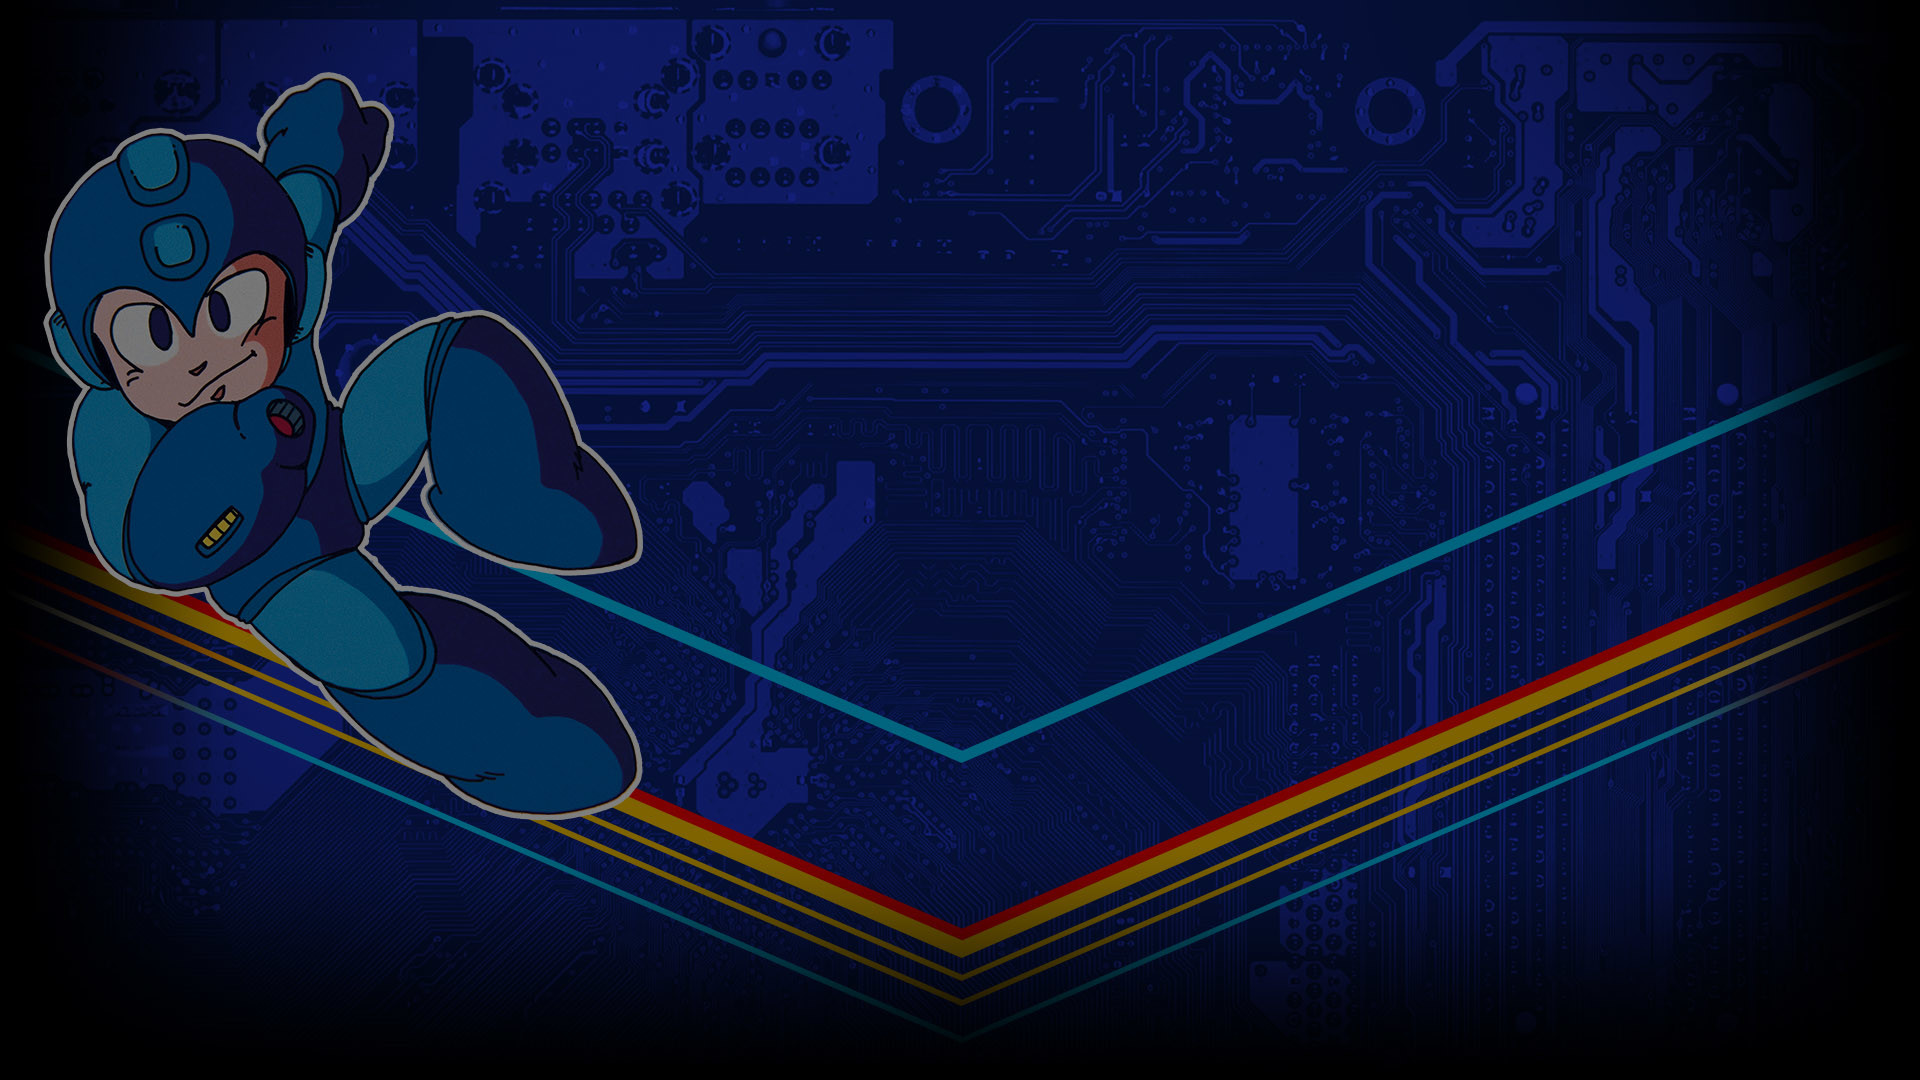
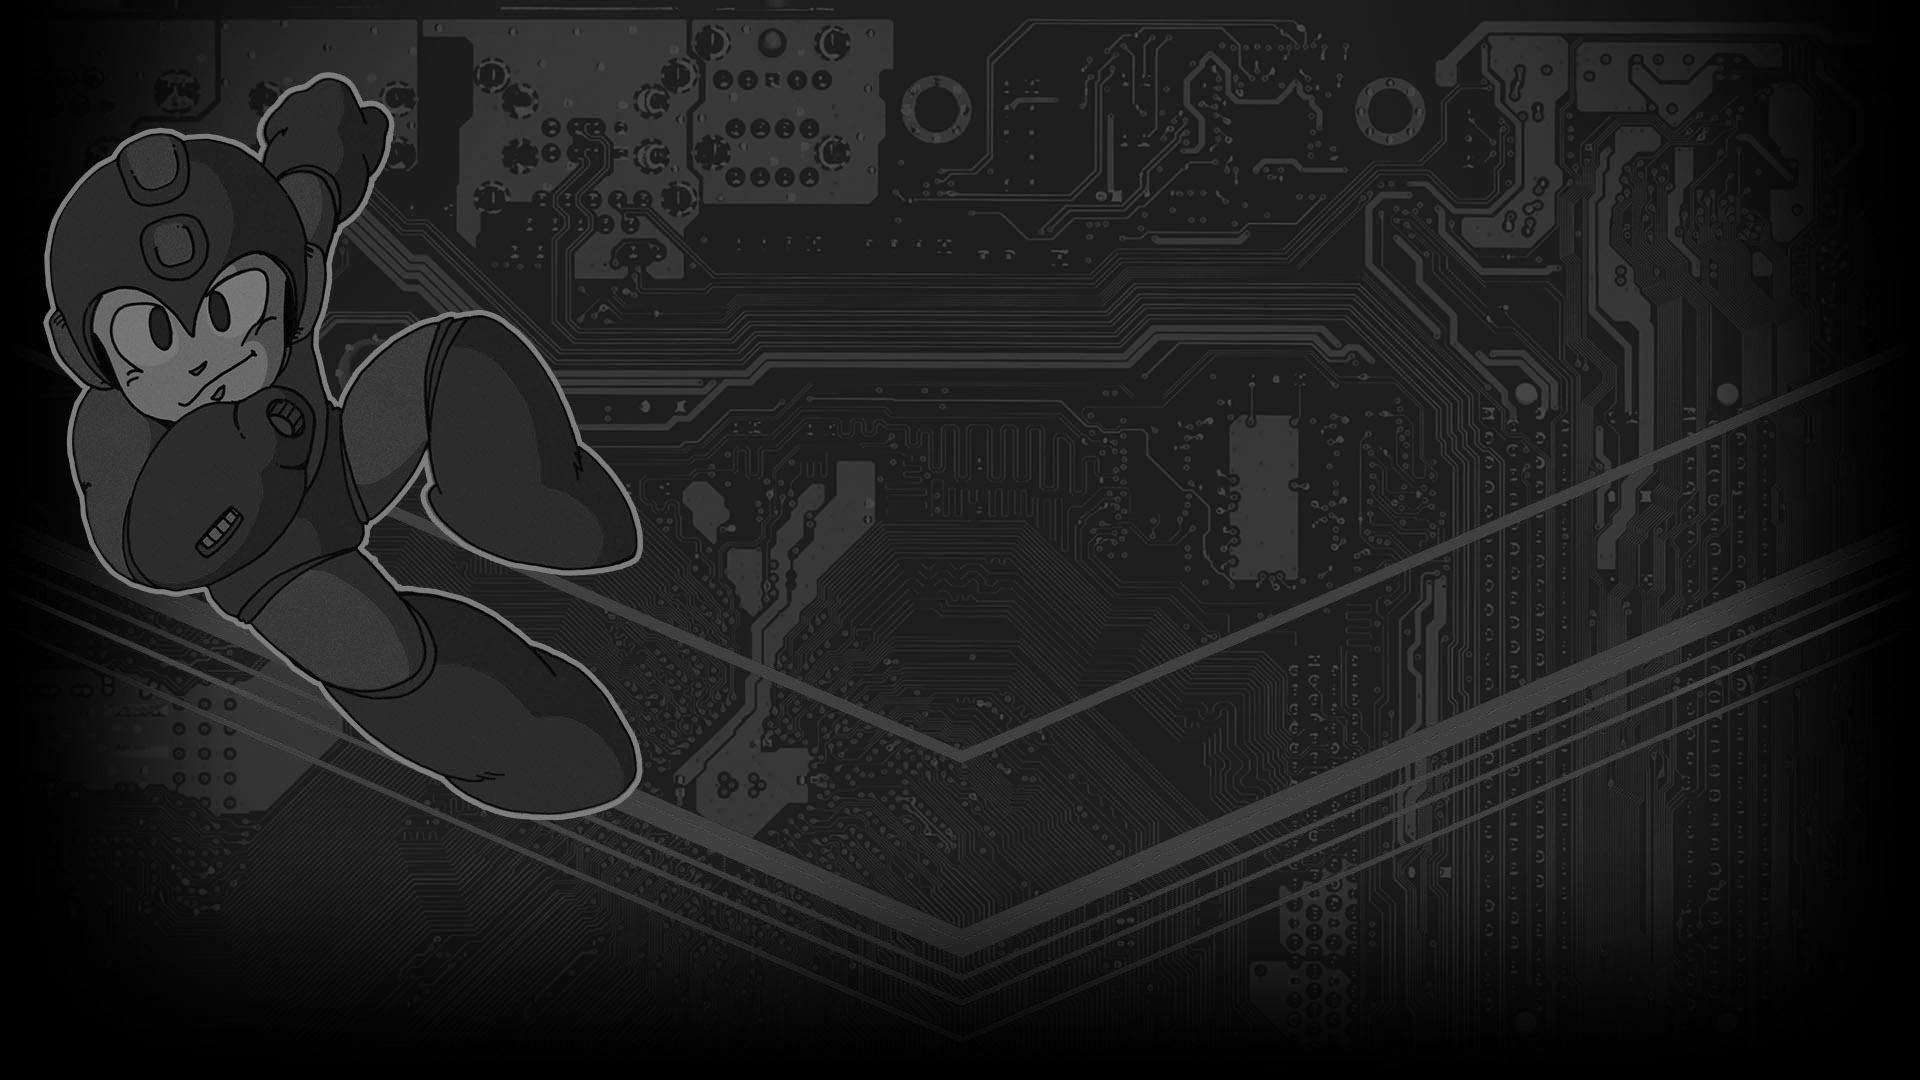
clear draw functions and add game over background

diff --git a/script.js b/script.js
@@ -29,11 +29,14 @@ let wilyNormal = new Image();
 wilyNormal.src = "./images/wily.png";
 let backgroundCanvas = new Image();
 backgroundCanvas.src = "./images/megaman_title.jpg";
+let backgroundLose = new Image();
+backgroundLose.src = "./images/megaman_bw.jpg";
 
 /* audios */
 
 let audio5 = new Audio();
 audio5.src = "./audios/audio5.mp3";
+audio5.volume = 1;
 let audio2 = new Audio();
 audio2.src = "./audios/audio2.mp3";
 let audio3 = new Audio();
@@ -48,10 +51,11 @@ let context = canvas.getContext("2d");
 let shotsMegaman = [];
 let shotsWily = [];
 let requestId = null;
+let startedGame = false;
 window.onload = () => {
 	context.fillStyle = "white";
 	context.fillText("Press Enter to Start", 107, 110);
-	context.drawImage(backgroundCanvas, 75, 10, 150, 75);
+	context.drawImage(backgroundCanvas, 75, 15, 150, 75);
 };
 
 /* game functions */
@@ -62,79 +66,13 @@ let gameArea = {
 	start: function() {
 		// console.log("start was called");
 		// setInterval(update, 1000);
+		startedGame = true;
 		update();
 	},
 
 	clear: function() {
 		gameArea.frame += 1;
 		context.drawImage(stage, 0, 0, 300, 150); // <== print stage
-		console.log(walkingCounter);
-		if (walkingCounter === 16) {
-			walkingCounter = 1;
-		}
-		if (megaman.isWalking && megaman.y === 100 && walkingCounter <= 5 && megaman.direction === "left") {
-			// print megaman walking 1
-			context.drawImage(megamanWalkingback1, megaman.x - 1, megaman.y + 2);
-			walkingCounter += 1;
-		} else if (
-			megaman.isWalking &&
-			megaman.y === 100 &&
-			walkingCounter >= 6 &&
-			walkingCounter <= 10 &&
-			megaman.direction === "left"
-		) {
-			// print megaman walking 2
-			context.drawImage(megamanWalkingback2, megaman.x - 1, megaman.y + 2);
-			walkingCounter += 1;
-		} else if (
-			megaman.isWalking &&
-			megaman.y === 100 &&
-			walkingCounter >= 11 &&
-			walkingCounter <= 15 &&
-			megaman.direction === "left"
-		) {
-			// print megaman walking 2
-			context.drawImage(megamanWalkingback3, megaman.x - 1, megaman.y + 2);
-			walkingCounter += 1;
-		} else if (megaman.isWalking && megaman.y === 100 && walkingCounter <= 5 && megaman.direction === "right") {
-			// print megaman walking 1
-			context.drawImage(megamanWalking1, megaman.x - 1, megaman.y + 2);
-			walkingCounter += 1;
-		} else if (
-			megaman.isWalking &&
-			megaman.y === 100 &&
-			walkingCounter >= 6 &&
-			walkingCounter <= 10 &&
-			megaman.direction === "right"
-		) {
-			// print megaman walking 2
-			context.drawImage(megamanWalking2, megaman.x - 1, megaman.y + 2);
-			walkingCounter += 1;
-		} else if (
-			megaman.isWalking &&
-			megaman.y === 100 &&
-			walkingCounter >= 11 &&
-			walkingCounter <= 15 &&
-			megaman.direction === "right"
-		) {
-			// print megaman walking 2
-			context.drawImage(megamanWalking3, megaman.x - 1, megaman.y + 2);
-			walkingCounter += 1;
-		} else if (megaman.isShooting && megaman.y < 100) {
-			// print megaman shooting in the air
-			context.drawImage(megamanShootingAir, megaman.x - 1, megaman.y - 5);
-		} else if (megaman.isShooting) {
-			// print megaman shooting
-			context.drawImage(megamanShooting, megaman.x, megaman.y);
-		} else if (megaman.y === 100) {
-			// print megaman in the ground
-			context.drawImage(megamanNormal, megaman.x, megaman.y);
-		} else {
-			// print megaman in the air
-			context.drawImage(megamanJumping, megaman.x - 1, megaman.y - 5);
-		}
-
-		context.drawImage(wilyNormal, wily.x, wily.y, 65, 75); // <== print wily
 
 		for (let i = 1; i <= megaman.health; i += 1) {
 			if (i % 25 === 0) {
@@ -205,6 +143,8 @@ class Player extends Character {
 	}
 
 	newPos() {
+		if (this.x < 0) this.x = 0;
+		if (this.x > 280) this.x = 280;
 		this.x += this.speedX;
 	}
 
@@ -216,6 +156,50 @@ class Player extends Character {
 		}
 		if (this.y < gameArea.ground && this.isJumping === false) {
 			this.y += 2;
+		}
+	}
+
+	drawMegaman() {
+		console.log(walkingCounter);
+		if (walkingCounter === 16) {
+			walkingCounter = 1;
+		}
+		if (this.isWalking && this.y === 100 && walkingCounter <= 5 && this.direction === "left") {
+			// print this walking 1
+			context.drawImage(megamanWalkingback1, this.x - 1, this.y + 2);
+			walkingCounter += 1;
+		} else if (this.isWalking && this.y === 100 && walkingCounter >= 6 && walkingCounter <= 10 && this.direction === "left") {
+			// print this walking 2
+			context.drawImage(megamanWalkingback2, this.x - 1, this.y + 2);
+			walkingCounter += 1;
+		} else if (this.isWalking && this.y === 100 && walkingCounter >= 11 && walkingCounter <= 15 && this.direction === "left") {
+			// print this walking 2
+			context.drawImage(megamanWalkingback3, this.x - 1, this.y + 2);
+			walkingCounter += 1;
+		} else if (this.isWalking && this.y === 100 && walkingCounter <= 5 && this.direction === "right") {
+			// print this walking 1
+			context.drawImage(megamanWalking1, this.x - 1, this.y + 2);
+			walkingCounter += 1;
+		} else if (this.isWalking && this.y === 100 && walkingCounter >= 6 && walkingCounter <= 10 && this.direction === "right") {
+			// print this walking 2
+			context.drawImage(megamanWalking2, this.x - 1, this.y + 2);
+			walkingCounter += 1;
+		} else if (this.isWalking && this.y === 100 && walkingCounter >= 11 && walkingCounter <= 15 && this.direction === "right") {
+			// print this walking 2
+			context.drawImage(megamanWalking3, this.x - 1, this.y + 2);
+			walkingCounter += 1;
+		} else if (this.isShooting && this.y < 100) {
+			// print this shooting in the air
+			context.drawImage(megamanShootingAir, this.x - 1, this.y - 5);
+		} else if (this.isShooting) {
+			// print this shooting
+			context.drawImage(megamanShooting, this.x, this.y);
+		} else if (this.y === 100) {
+			// print this in the ground
+			context.drawImage(megamanNormal, this.x, this.y);
+		} else {
+			// print this in the air
+			context.drawImage(megamanJumping, this.x - 1, this.y - 5);
 		}
 	}
 
@@ -257,12 +241,14 @@ class Boss extends Character {
 
 	shoot(shooter) {
 		console.log("shoot was called");
-		shotsWily.unshift(
-			new Shot(shooter, this.attackDamage, this.x, this.y + 20 + 40 * Math.floor(Math.random() * 2))
-		);
+		shotsWily.unshift(new Shot(shooter, this.attackDamage, this.x, this.y + 20 + 40 * Math.floor(Math.random() * 2)));
 	}
 
-	drawWilyPower(shot) {
+	drawBoss() {
+		context.drawImage(wilyNormal, wily.x, wily.y, 65, 75);
+	}
+
+	drawBossPower(shot) {
 		context.lineWidth = 2;
 		context.fillStyle = "red";
 		context.beginPath();
@@ -274,20 +260,10 @@ class Boss extends Character {
 
 	shotUpdate() {
 		shotsWily.forEach((shot, i) => {
-			if (
-				shot.x > megaman.x + 20 ||
-				(shot.x < megaman.x && shot.x > 1) ||
-				shot.y > megaman.y + 24 ||
-				shot.y < megaman.y
-			) {
-				this.drawWilyPower(shot);
+			if (shot.x > megaman.x + 20 || (shot.x < megaman.x && shot.x > 1) || shot.y > megaman.y + 24 || shot.y < megaman.y) {
+				this.drawBossPower(shot);
 				shot.x -= 2;
-			} else if (
-				shot.x < megaman.x + 40 &&
-				shot.x > megaman.x - 10 &&
-				shot.y < megaman.y + 30 &&
-				shot.y > megaman.y - 20
-			) {
+			} else if (shot.x < megaman.x + 40 && shot.x > megaman.x - 10 && shot.y < megaman.y + 30 && shot.y > megaman.y - 20) {
 				shotsWily.splice(i, 1);
 				megaman.receiveDamage(this.attackDamage);
 				console.log(megaman.health);
@@ -317,10 +293,12 @@ function update() {
 		audio3.pause();
 		cancelAnimationFrame(update);
 		audio2.play();
-		context.drawImage(result, 0, 0, 300, 150);
+		context.fillStyle = "black";
+		context.fillRect(0, 0, 1000, 1000);
 		context.fillStyle = "white";
 		context.font = "20px Arial";
-		context.fillText("Megaman Lose!", 20, 78);
+		context.drawImage(backgroundLose, 30, 25, 100, 100);
+		context.fillText("You Lose!", 150, 78);
 		setInterval(() => window.location.reload(), 6000);
 	} else if (gameArea.checkWin()) {
 		audio3.pause();
@@ -335,6 +313,8 @@ function update() {
 		audio3.play();
 		megaman.newPos();
 		gameArea.clear();
+		megaman.drawMegaman();
+		wily.drawBoss();
 		megaman.jumpUpdate();
 		megaman.shotUpdate();
 		wily.shotUpdate();
@@ -359,7 +339,7 @@ document.onkeydown = function(e) {
 		case 38: // <== up arrow
 			if (megaman.y === 100) {
 				megaman.isJumping = true;
-				if (!gameArea.checkGameOver && !gameArea.checkWin) jumpAudio.play();
+				if (!gameArea.checkGameOver() && !gameArea.checkWin()) jumpAudio.play();
 			}
 			break;
 		case 37: // <== left arrow
@@ -373,14 +353,14 @@ document.onkeydown = function(e) {
 			megaman.direction = "right";
 			break;
 		case 32: // <== space bar
-			// if (shotsMegaman.length < 3) {
-			if (!gameArea.checkGameOver && !gameArea.checkWin) shotAudio.play();
-			megaman.shoot("megaman");
-			megaman.isShooting = true;
-			// }
+			if (shotsMegaman.length < 3) {
+				if (!gameArea.checkGameOver() && !gameArea.checkWin()) shotAudio.play();
+				megaman.shoot("megaman");
+				megaman.isShooting = true;
+			}
 			break;
 		case 13: // <== enter
-			gameArea.start();
+			if (!startedGame) gameArea.start();
 			break;
 	}
 };

diff --git a/index.html b/index.html
@@ -12,19 +12,19 @@
 </head>
 
 <body>
-    <div class="container">
-        <h1 class="display-4">How to play</h1>
+    <div class="container mt-4">
+        <h1 class="text-white">How to play:</h1>
         <div class="row">
-            <div class="col text-center"><img src="" alt="Left key">
+            <div class="col text-center text-white"><img src="" alt="Left key">
                 <p>Move left</p>
             </div>
-            <div class="col text-center"><img src="" alt="Right key">
+            <div class="col text-center text-white"><img src="" alt="Right key">
                 <p>Move right</p>
             </div>
-            <div class="col text-center"><img src="" alt="Up key">
+            <div class="col text-center text-white"><img src="" alt="Up key">
                 <p>Jump</p>
             </div>
-            <div class="col text-center"><img src="" alt="Space bar">
+            <div class="col text-center text-white"><img src="" alt="Space bar">
                 <p>Shoot</p>
             </div>
 

diff --git a/style.css b/style.css
@@ -2,6 +2,9 @@ html,
 body {
 	margin: 0;
 	padding: 0;
+	background-image: url("./images/background4.jpg");
+	background-size: cover;
+	font-family: Arial, Helvetica, sans-serif;
 	/* background-color: black; */
 }
 
